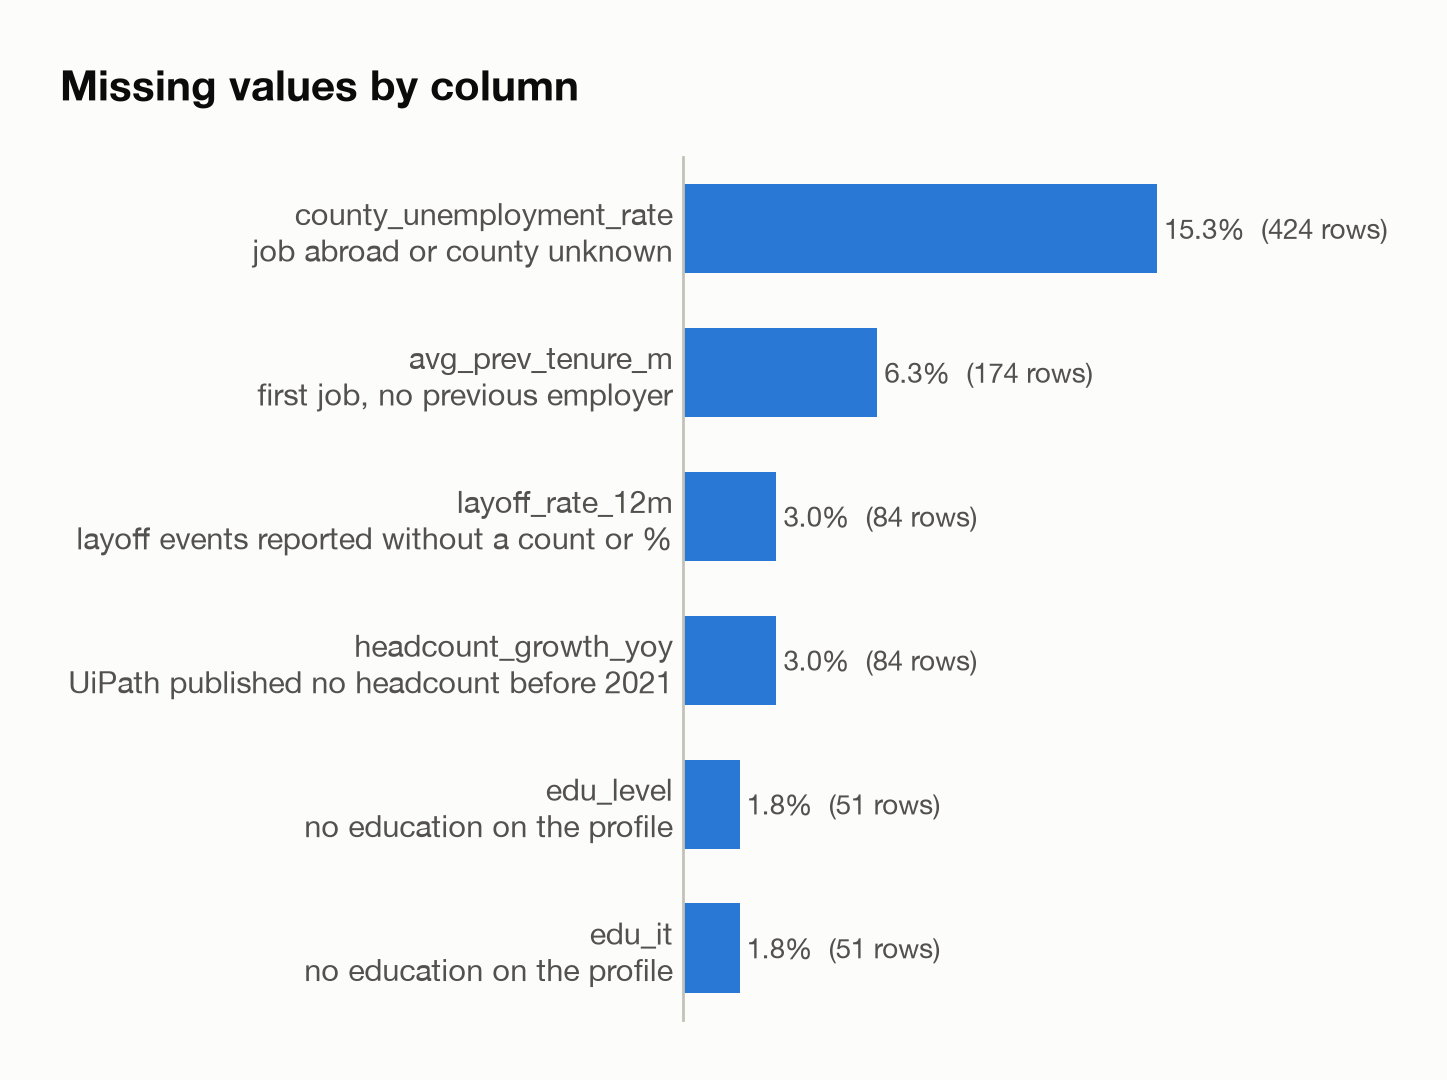
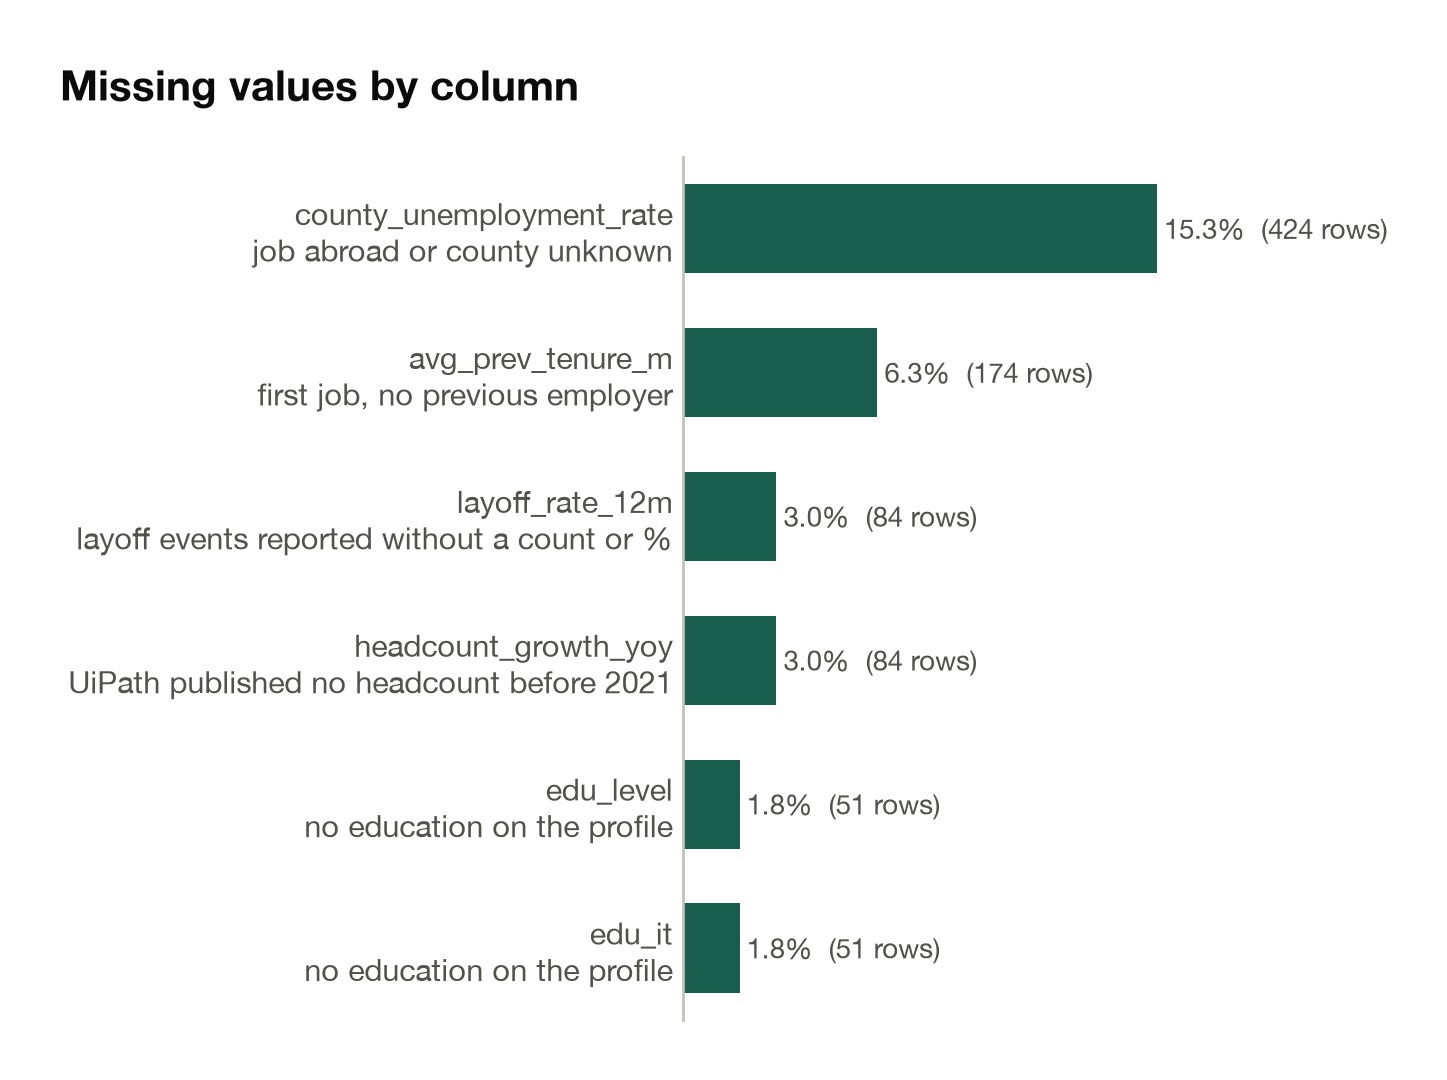
Use the project colors in the figures and bring the README up to date
- Figures: data in #195d4d on a pure white background; the correlation heatmap goes from orange-brown
  (negative) to green (positive), so it stays readable for colorblind readers.
- README: current dataset size, tests and docs/figures in the layout, the scraper options and the batch sizes
  that avoid HTTP 403, and short sections for parsing, public data, company matching and the figures.

diff --git a/extraction/describe_dataset.py b/extraction/describe_dataset.py
@@ -26,11 +26,12 @@ from common import INTERIM_DIR, PROFILE_URLS_CSV, RAW_DIR, ROOT_DIR, SCRAPE_STAT
 
 FIGURES_DIR = ROOT_DIR / "docs" / "figures"
 
-# Colors: blue is the data, gray is context ("stayed", small groups).
-SURFACE, INK, INK_2, MUTED = "#fcfcfb", "#0b0b0b", "#52514e", "#898781"
+# Colors: green is the data, gray is context ("stayed", small groups).
+SURFACE, INK, INK_2, MUTED = "#ffffff", "#0b0b0b", "#52514e", "#898781"
 GRID, AXIS = "#e1e0d9", "#c3c2b7"
-BLUE, GRAY = "#2a78d6", "#c3c2b7"
-DIVERGING = LinearSegmentedColormap.from_list("red_gray_blue", ["#b8312f", "#efa29e", "#f0efec", "#86b6ef", "#1c5cab"])
+ACCENT, GRAY = "#195d4d", "#c3c2b7"
+# Negative correlations orange-brown, positive green: a red-green pair would be hard to tell apart for colorblind readers.
+DIVERGING = LinearSegmentedColormap.from_list("orange_gray_green", ["#a8501f", "#e8b493", "#f0efec", "#9cc7ba", "#195d4d"])
 
 MIN_GROUP_ROWS = 50  # groups with fewer rows are drawn in gray (or folded into "Other")
 
@@ -90,7 +91,7 @@ def heading(fig, title: str, subtitle: str | None = None, note: str | None = Non
         fig.text(0, 0, note, transform=offset_copy(fig.transFigure, fig=fig, y=-6, units="points"), ha="left", va="top", fontsize=9.5, color=MUTED)
 
 
-def hbar(ax, labels: list[str], values: list[float], texts: list[str], colors: str | list[str] = BLUE, slots: int | None = None) -> None:
+def hbar(ax, labels: list[str], values: list[float], texts: list[str], colors: str | list[str] = ACCENT, slots: int | None = None) -> None:
     """Horizontal bars, first label on top, every bar labeled at its tip (so no value axis).
 
     slots fixes the number of bar positions, so panels with fewer categories keep the same bar thickness.
@@ -126,14 +127,14 @@ def segmented_bar(ax, parts: list[tuple[str, float, str, str]], total_label: str
 
 
 def boxes(ax, data: pd.DataFrame, column: str, title: str, percent: bool = False) -> None:
-    """Stayed (gray) vs left (blue): box = middle 50%, whiskers = 5th-95th percentile, line = median."""
+    """Stayed (gray) vs left (green): box = middle 50%, whiskers = 5th-95th percentile, line = median."""
     scale = 100 if percent else 1
     groups = [data.loc[data["left_12m"] == label, column].dropna() * scale for label in (0, 1)]
     plot = ax.boxplot(
         groups, positions=[0, 1], widths=0.42, whis=(5, 95), showfliers=False, patch_artist=True,
         medianprops={"color": INK, "linewidth": 2}, whiskerprops={"color": MUTED}, capprops={"color": MUTED},
     )  # fmt: skip
-    for patch, color in zip(plot["boxes"], (GRAY, BLUE)):
+    for patch, color in zip(plot["boxes"], (GRAY, ACCENT)):
         patch.set(facecolor=color, edgecolor=color)
     for x, values in enumerate(groups):
         median = values.median()
@@ -201,7 +202,7 @@ def fig_class_balance(d: pd.DataFrame) -> None:
         ax,
         [
             (f"Stayed for the next 12 months ({n - left:,} rows)", (n - left) / n, GRAY, INK),
-            (f"Left within 12 months ({left} rows, {people_left} people)", left / n, BLUE, "#ffffff"),
+            (f"Left within 12 months ({left} rows, {people_left} people)", left / n, ACCENT, "#ffffff"),
         ],
         f"{n:,} rows",
     )
@@ -217,7 +218,7 @@ def fig_rows_per_person(d: pd.DataFrame) -> None:
     per_person = d.groupby("person_id").size()
     counts = per_person.value_counts().reindex(range(1, per_person.max() + 1), fill_value=0)
     fig, ax = plt.subplots(figsize=(10, 4.2), layout="constrained")
-    ax.bar(counts.index, counts.values, width=0.6, color=BLUE)
+    ax.bar(counts.index, counts.values, width=0.6, color=ACCENT)
     peak = counts.idxmax()
     ax.text(peak, counts[peak], f"{counts[peak]} people", ha="center", va="bottom", fontsize=10, color=INK_2)
     ax.set_xticks(counts.index)
@@ -239,7 +240,7 @@ def fig_departures_over_time(d: pd.DataFrame) -> None:
     x = np.arange(len(by_t))
     fig, (top, bottom) = plt.subplots(2, 1, figsize=(8.4, 5.8), sharex=True, layout="constrained")
 
-    top.plot(x, rate, color=BLUE, lw=2, marker="o", ms=8, mec=SURFACE, mew=2, solid_capstyle="round")
+    top.plot(x, rate, color=ACCENT, lw=2, marker="o", ms=8, mec=SURFACE, mew=2, solid_capstyle="round")
     for i in {int(np.argmax(rate)), int(np.argmin(rate)), len(x) - 1}:
         top.annotate(f"{rate.iloc[i]:.1f}%", (x[i], rate.iloc[i]), xytext=(0, 9), textcoords="offset points", ha="center", fontsize=10, color=INK_2)
     top.set_ylim(0, rate.max() * 1.3)
@@ -316,7 +317,7 @@ def fig_leave_rate_by_group(d: pd.DataFrame) -> None:
         y = np.arange(len(stats))
         # Compared as printed, so a group shown as "5.0%" is never colored above an average shown as "5.0%".
         above = [round(rate, 1) > round(overall, 1) for rate in stats["rate"]]
-        ax.barh(y, stats["rate"], height=0.62, color=[BLUE if a else GRAY for a in above])
+        ax.barh(y, stats["rate"], height=0.62, color=[ACCENT if a else GRAY for a in above])
         for yi, rate in zip(y, stats["rate"]):
             # A surface-colored box keeps the average line from running through the label.
             ax.text(rate + top * 0.012, yi, f"{rate:.1f}%", va="center", ha="left", fontsize=10, color=INK_2, zorder=4,
@@ -334,7 +335,7 @@ def fig_leave_rate_by_group(d: pd.DataFrame) -> None:
         fig,
         "Departure rate by seniority, company, job family and region",
         "Share of rows in which the person left the company within the next 12 months. "
-        f"Blue: above the average of {overall:.1f}%.\nn = number of rows. Groups with fewer than {MIN_GROUP_ROWS} rows are left out.",
+        f"Green: above the average of {overall:.1f}%.\nn = number of rows. Groups with fewer than {MIN_GROUP_ROWS} rows are left out.",
     )
     save(fig, "06_leave_rate_by_group.png")
 
@@ -413,14 +414,14 @@ def fig_public_series() -> None:
     ):
         dates = frame["period"].map(month_start)
         keep = (dates >= start) & (dates <= end)
-        ax.plot(dates[keep], frame.loc[keep, "value"], color=BLUE, lw=2, marker="o" if ax is axes[1] else None, ms=5, mec=SURFACE, mew=1.5)
+        ax.plot(dates[keep], frame.loc[keep, "value"], color=ACCENT, lw=2, marker="o" if ax is axes[1] else None, ms=5, mec=SURFACE, mew=1.5)
         ax.grid(axis="y")
         ax.set_title(title, fontsize=11)
     if layoffs is not None:
         monthly = layoffs.dropna(subset=["month"]).groupby("month")["laid_off"].sum() / 1000
         dates = [pd.Timestamp(int(m) // 12, int(m) % 12 + 1, 1) for m in monthly.index]
         series = pd.Series(monthly.values, index=dates).loc[start:end]
-        axes[2].bar(series.index, series.values, width=20, color=BLUE)
+        axes[2].bar(series.index, series.values, width=20, color=ACCENT)
         axes[2].grid(axis="y")
         axes[2].set_title("Tech layoffs worldwide (thousands/month, layoffs.fyi)", fontsize=11)
     axes[2].set_xlim(start, end)

diff --git a/README.md b/README.md
@@ -4,16 +4,21 @@ Predicts whether a person working at a big tech company in Romania leaves their 
 The dataset is built from public LinkedIn profiles collected with our own scraper, joined with layoff events
 (layoffs.fyi), company headcount (annual reports) and labour market statistics (Eurostat, INS).
 
-Each row is a (person, reference date) pair: one profile yields a row every 6 months while the person worked at a
-target company, with features computed only from what was known at that date. Column meanings and sources are in
-[data/README.md](data/README.md).
+Each row is a (person, reference date) pair: one profile yields a row every 6 months (2021-01 to 2025-07) while the
+person worked at a target company, with features computed only from what was known at that date. Column meanings and
+sources are in [data/README.md](data/README.md).
+
+The current [data/processed/dataset.csv](data/processed/dataset.csv) has 2,764 rows from 355 people, 23 features and
+5.0% positive rows (`left_12m = 1`).
 
 ## Repository
 
 ```
-extraction/   scripts that collect, parse and join the data (pipeline below)
-data/         reference tables, public raw data and the final dataset (see data/README.md)
-docs/         presentations
+extraction/         scripts that collect, parse and join the data (pipeline below)
+extraction/tests/   tests of the parsing and of the dataset rules on hand-computed examples
+data/               reference tables, public raw data and the final dataset (see data/README.md)
+docs/figures/       descriptive figures made by describe_dataset.py
+docs/               presentations
 ```
 
 ## Setup
@@ -23,29 +28,36 @@ Requires [uv](https://docs.astral.sh/uv/).
 ```bash
 uv sync
 cp .env.example .env
-uv run pytest            # checks the dataset logic on hand-computed examples
+uv run pytest            # checks the parsing and the dataset logic on hand-computed examples
 ```
 
 ## Pipeline
 
 | Step | Command | Output |
 |---|---|---|
-| 1. Find profiles | `uv run extraction/collect_urls.py --target 800` | `data/interim/profile_urls.csv` |
-| 2. Scrape profiles | `uv run extraction/linkedin_scraper.py --limit 40` (daily) | `data/raw/linkedin/<id>/*.json` |
+| 1. Find profiles | `uv run extraction/collect_urls.py --target 1000` | `data/interim/profile_urls.csv` |
+| 2. Scrape profiles | `uv run extraction/linkedin_scraper.py --limit 20 --min-delay 20 --max-delay 45` (one batch) | `data/raw/linkedin/<id>/*.json` |
 | 3. Parse profiles | `uv run extraction/parse_profiles.py` | `data/interim/{profiles,positions,educations}.csv` |
 | 4. Public data | `uv run extraction/fetch_public_data.py`, plus the layoffs.fyi CSV by hand | `data/raw/{eurostat,ins,layoffs}/` |
 | 5. Build dataset | `uv run extraction/build_dataset.py` | `data/processed/dataset.csv` |
 | 6. Descriptive figures | `uv run extraction/describe_dataset.py` | `docs/figures/*.png` |
 
-Steps 3 and 5 can be rerun at any time; they only read local files.
+Steps 3, 5 and 6 can be rerun at any time; they only read local files. `data/raw/linkedin/` and `data/interim/` hold
+personal data and are git-ignored, so a fresh clone can run step 6 (without its first figure) but not steps 3 and 5.
 
 ### 1. Finding profiles
 
 `collect_urls.py` runs Google "X-ray" searches such as `site:ro.linkedin.com/in "Oracle" "engineer" ("Bucharest" OR "București")`
 through the [Serper](https://serper.dev) API (set `SERPER_API_KEY` in `.env`), for every target company in
-`data/reference/companies.csv` x role keyword x city. No request goes to LinkedIn. Every query is logged in
-`data/interim/search_log.csv`, so a rerun continues where the last one stopped. `--dry-run` prints the queries
-without calling the API; `--add-urls FILE` adds profile URLs found by hand.
+`data/reference/companies.csv` x role keyword x city (Bucharest, Cluj, Iași, Timișoara, Brașov). No request goes to
+LinkedIn. Every query is logged in `data/interim/search_log.csv`, so a rerun continues where the last one stopped.
+`--target` stops at that many unique profiles (default 800), `--max-queries` caps the API calls of one run, `--pages`
+sets the result pages per query, `--dry-run` prints the queries without calling the API and `--add-urls FILE` adds
+profile URLs found by hand.
+
+The scraper takes the profiles in the order of `profile_urls.csv`, so reordering that file sets the priority. In the
+current collection, searches for SAP, Meta, Apple and Salesforce mostly returned people who never worked there
+(for example Salesforce consultants and iOS developers), so those URLs were moved to the end of the queue.
 
 The population is everyone with a current or past job at a target company: past employees are needed, otherwise
 everyone in the sample stayed by construction. Search engines favour prominent profiles, which biases the sample
@@ -63,16 +75,55 @@ cookies of a normal browser login. Fill in `.env` from a browser logged in to th
 
 Do not log out in that browser while scraping. Per profile, the script makes three requests (profile, positions,
 education) with random pauses, saves each response untouched and records progress in
-`data/interim/scrape_status.json`. It stops at the first response that is not HTTP 200; rerun it later to continue.
-`--no-education` skips the education request, `--skip ID` excludes a profile, `--verbose` logs every request.
+`data/interim/scrape_status.json`. Profiles not tried yet come first and failed ones are retried last. It stops at
+the first response that is not HTTP 200; rerun it later to continue.
 
-Automated access is against LinkedIn's terms and can get the account restricted: keep batches small (tens of
-profiles a day) and keep the delays.
+| Option | Effect |
+|---|---|
+| `--limit N` | scrape at most N profiles in this run |
+| `--min-delay`, `--max-delay` | seconds to wait between profiles (default 5 to 12) |
+| `--no-education` | skip the education request |
+| `--dry-run` | list the profiles that would be scraped, without logging in |
+| `--skip ID` | mark a profile as skipped so no run tries it again |
+| `--verbose` | log every request |
+
+Automated access is against LinkedIn's terms and can get the account restricted. Long runs at the default delays
+ended with HTTP 403 or a logged-out session, so keep batches small (`--limit 20`), keep the longer delays above and
+pause between batches.
+
+### 3. Parsing
+
+`parse_profiles.py` turns the saved responses of every profile marked as scraped into three tables: profiles,
+positions (title, company name and LinkedIn company ID, location, start and end month) and educations (school,
+degree, field, dates). People are identified by `person_id`, a salted SHA-256 hash of the public profile ID. The salt
+is created on the first run in `data/interim/pseudonym_salt.txt` and never leaves the machine, so the published IDs
+cannot be linked back to a profile by hashing guessed profile IDs.
+
+### 4. Public data
+
+`fetch_public_data.py` downloads the Romanian unemployment rate and the ICT job vacancy rate from Eurostat and the
+county unemployment rate (SOM103B) from INS TEMPO. The layoffs.fyi snapshot is added by hand and
+`data/raw/headcount/headcount.csv` is kept by hand, with a source URL for every value; both are described in
+[data/README.md](data/README.md).
 
 ### 5. Building the dataset
 
-`build_dataset.py` merges consecutive positions at the same employer into stints (a title change there is a
-promotion, not a departure), creates a row for every reference date at which a target-company stint was active,
-labels it 1 if that stint ends within 12 months, and adds the features. It also prints the number of rows and the
-share of leavers per date and per company, the share of missing values per column, and company names that look
-like a target company but did not match its pattern in `companies.csv`.
+`build_dataset.py` matches every position to a target company, by LinkedIn company ID first and by the name pattern
+in `companies.csv` otherwise. Names such as "Google via Qualitest Group" are contractors and do not match, and Fitbit
+counts as Google (acquired in January 2021). It then merges consecutive positions at the same employer into stints (a
+title change there is a promotion, not a departure), creates a row for every reference date at which a
+target-company stint was active, labels it 1 if that stint ends within 12 months, and adds the features.
+
+Features only use information available before the reference date: public series are joined by publication date,
+not by period, and a row is kept only when its 12-month window ended at least 4 months before the profile was
+scraped. The script also prints the number of rows and the share of leavers per date and per company, the share of
+missing values per column, and company names that look like a target company but did not match its pattern in
+`companies.csv`.
+
+### 6. Descriptive figures
+
+`describe_dataset.py` reads `data/processed/dataset.csv` and writes 10 figures to `docs/figures/`: the data
+collection funnel, the class distribution, rows per person, the departure rate and tech layoffs by reference date,
+the categorical distributions, the departure rate by group, the numeric features by class, missing values, Spearman
+correlations and the public labour market series. The funnel also needs the local files in `data/interim/` and is
+skipped without them. The figures show aggregates only.
